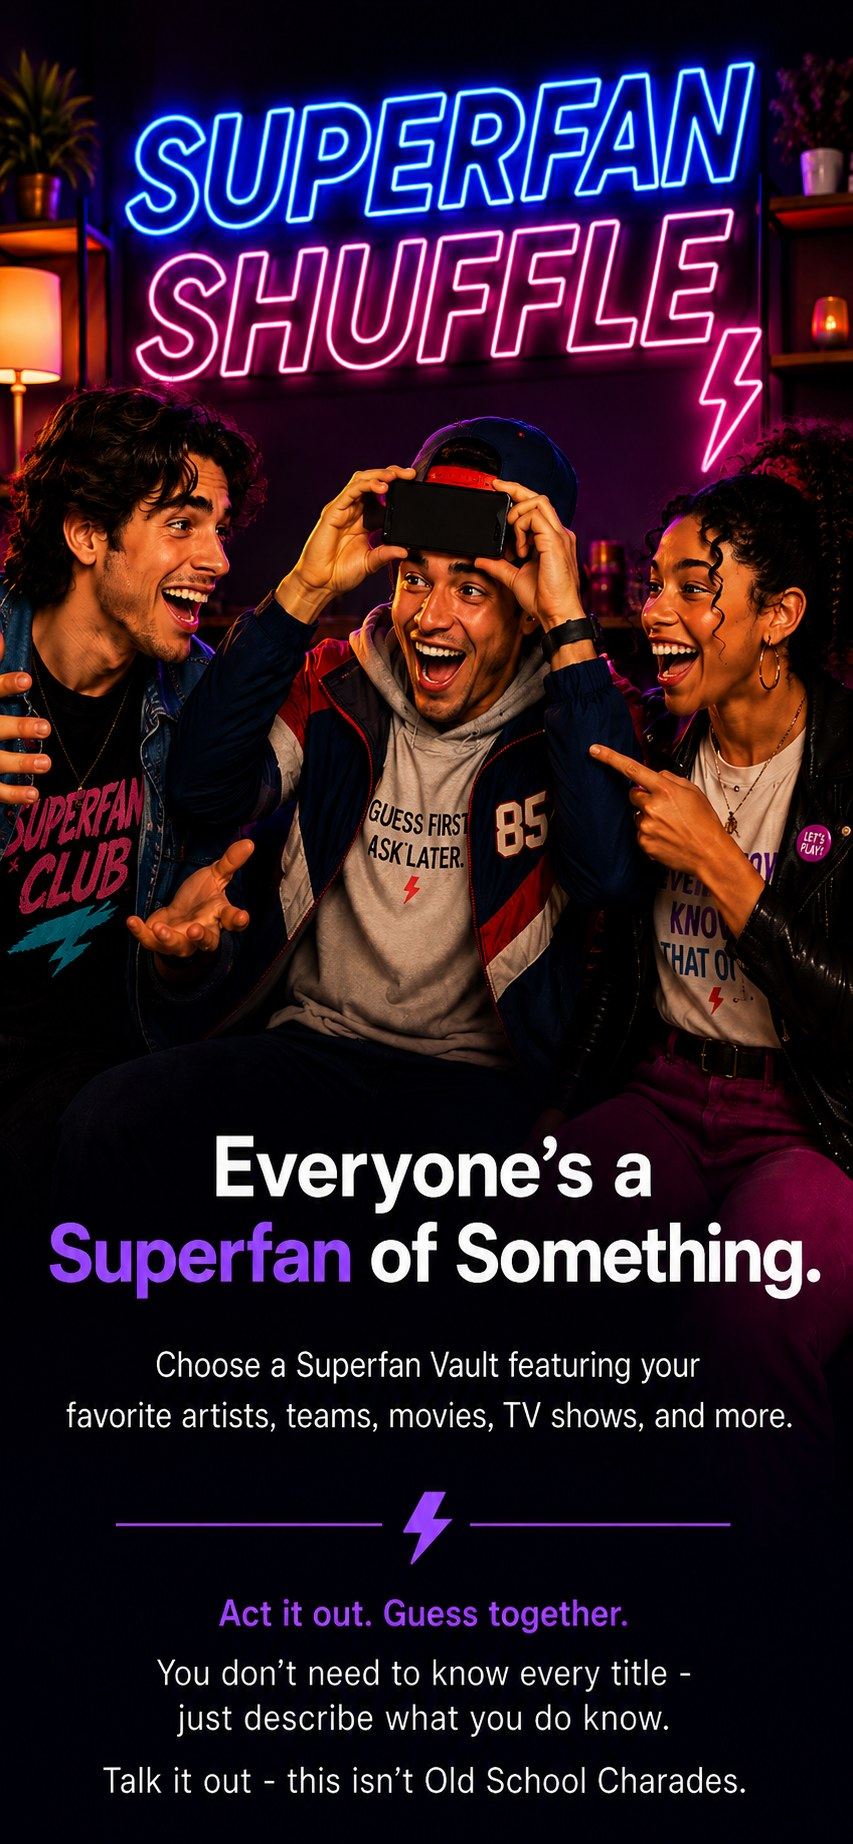
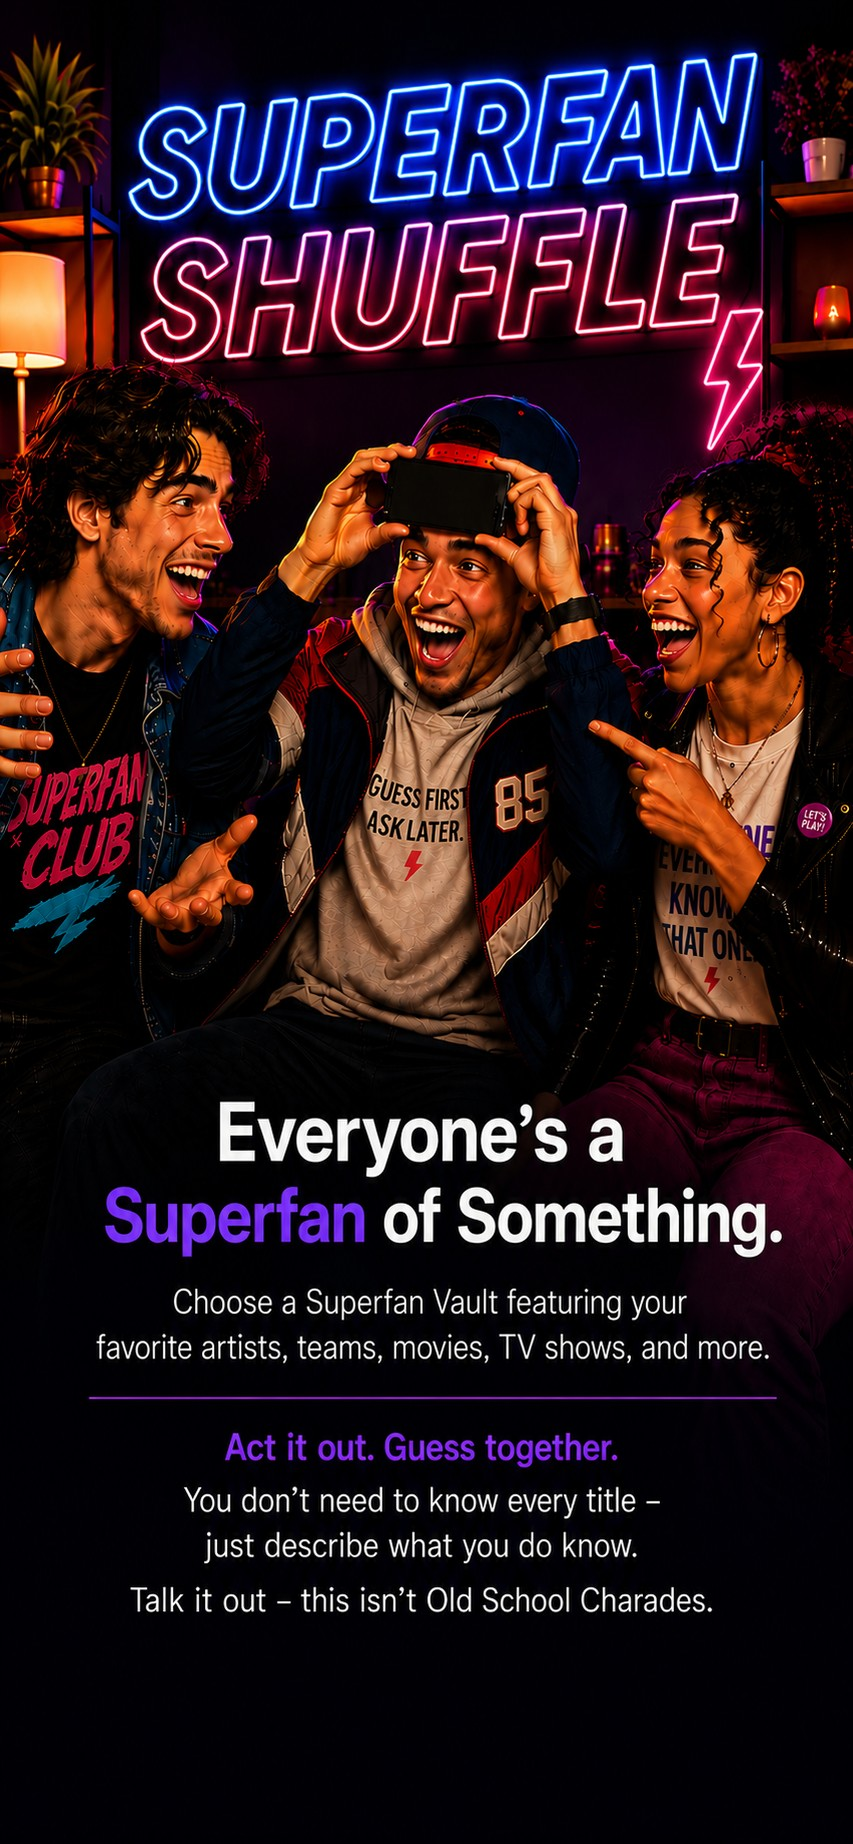
SFS v178: new intro description graphic (plus v177 guide colours)

diff --git a/play.html b/play.html
@@ -891,62 +891,33 @@ function qpgIco(n){var s='<svg width="100%" height="100%" viewBox="0 0 24 24" fi
 function qpgAv(){return '<svg viewBox="0 0 24 24" width="100%" height="100%" fill="none" stroke="currentColor" stroke-width="1.7"><circle cx="12" cy="12" r="10.5"/><circle cx="12" cy="9.6" r="3.3" fill="currentColor" stroke="none"/><path d="M5.6 19.4a6.7 6.7 0 0112.8 0" fill="currentColor" stroke="none"/></svg>';}
 function qpgD(){return '<svg width="55%" height="55%" viewBox="0 0 24 24" fill="none" stroke="currentColor" stroke-width="2.6" stroke-linecap="round" stroke-linejoin="round"><path d="M12 5v14M6 13l6 6 6-6"/></svg>';}
 function qpgU(){return '<svg width="55%" height="55%" viewBox="0 0 24 24" fill="none" stroke="currentColor" stroke-width="2.6" stroke-linecap="round" stroke-linejoin="round"><path d="M7 17L17 7M9 7h8v8"/></svg>';}
-/* ===== guide accent picker (rebuilt Aug 2026 — see the audit note below) =====
-   The old version only guarded against a near-WHITE outline. It had no guard for a
-   near-BLACK one, and 52 of the 124 teams carry an outline that fails 3:1 against the
-   guide's #0e1c2e background — 30 of them are pure #000000 (Celtics, Bulls, Raptors,
-   Bruins...). On those teams the accent text and the TAP TO PLAY button rendered black
-   on near-black. Now: take whichever of the team's two colours reads better on the
-   guide background, and if even that is under the floor, lift it toward white until it
-   clears. Result is 124/124 legible; 21 teams get a lift, and most of those are a few
-   percent (Pistons #C8102E -> #CA1734). */
-var QPG_BG='#0e1c2e', QPG_FLOOR=3.2;
+/* ===== guide chrome colours (settled Aug 2026) =====
+   The guide does NOT use team colours. It did briefly, and the audit that came out of
+   it is worth keeping in mind if anyone reconsiders:
+     - 52 of the 124 teams have a card outline that fails 3:1 on this background, 30 of
+       them pure #000000, so a naive team accent renders black-on-black.
+     - Only 13 teams own a genuine, legible, distinct SECOND colour. For the rest the
+       second colour is black, white, or so dark it has to be lifted into a hue the team
+       does not actually own (Braves navy #13274F -> a bright blue).
+     - Worse, the "official" second colours that do exist are mostly unrecognisable:
+       Celtics Gold #BA9653 is a tan in the leprechaun's vest, Yankees red #E4002C is a
+       mark nobody pictures. Technically correct, reads as wrong.
+   The card behind the guide is navy and the game card carries the team colours already,
+   so the guide is app chrome: the sports edition orange plus the standing light blue.
+   Team colours still drive the GAME screens via #app.sportcard - that is unchanged. */
+var QPG_BG='#0e1c2e';
+var QPG_ACCENT={sports:'#FF8A2A', music:'#ff5cf0'};   /* sports orange = the store's Sports tab tint */
+var QPG_SECOND='#5fa8e8';
 function _qRgb(h){ h=(h||'').replace('#',''); if(h.length!==6) return null;
  return [parseInt(h.substr(0,2),16),parseInt(h.substr(2,2),16),parseInt(h.substr(4,2),16)]; }
-function _qHex(c){ var s='#'; for(var i=0;i<3;i++){ var v=Math.round(Math.max(0,Math.min(255,c[i]))).toString(16); s+=(v.length<2?'0':'')+v; } return s; }
 function _qLum(h){ var c=_qRgb(h); if(!c) return 0; var o=[];
  for(var i=0;i<3;i++){ var v=c[i]/255; o[i]=(v<=.03928)?v/12.92:Math.pow((v+.055)/1.055,2.4); }
  return .2126*o[0]+.7152*o[1]+.0722*o[2]; }
 function _qCr(a,b){ var x=_qLum(a),y=_qLum(b); return (Math.max(x,y)+.05)/(Math.min(x,y)+.05); }
-/* Lift in HSL — raise LIGHTNESS only, keep hue and saturation. Blending toward white
-   instead would desaturate: Toronto's #00205B came out #6b6b6b grey, which reads as a
-   bug, not as a team colour. This keeps a dark navy a navy. */
-function _qHsl(c){ var r=c[0]/255,g=c[1]/255,b=c[2]/255,
- mx=Math.max(r,g,b),mn=Math.min(r,g,b),d=mx-mn,l=(mx+mn)/2,h=0,s=0;
- if(d){ s=l>.5?d/(2-mx-mn):d/(mx+mn);
-  h=(mx===r)?((g-b)/d+(g<b?6:0)):(mx===g)?((b-r)/d+2):((r-g)/d+4); h/=6; }
- return [h,s,l]; }
-function _qRgbFromHsl(h,s,l){ function f(p,q,t){ if(t<0)t+=1; if(t>1)t-=1;
-  if(t<1/6)return p+(q-p)*6*t; if(t<1/2)return q; if(t<2/3)return p+(q-p)*(2/3-t)*6; return p; }
- if(!s) return [l*255,l*255,l*255];
- var q=l<.5?l*(1+s):l+s-l*s, p=2*l-q;
- return [f(p,q,h+1/3)*255, f(p,q,h)*255, f(p,q,h-1/3)*255]; }
-function _qLift(h,t,bg){ var c=_qRgb(h); if(!c) return h;
- var v=_qHsl(c), hu=v[0], sa=v[1], li=v[2];
- for(var k=0;k<=100;k++){ var n=_qHex(_qRgbFromHsl(hu,sa,Math.min(1,li+k/100)));
-  if(_qCr(n,bg)>=t) return n; }
- return '#ffffff'; }
-/* chroma, not HSV saturation — HSV calls #101820 "50% saturated" when it is basically
-   black. (max-min)/255 correctly scores it 0.06 and the Steelers' gold 0.93. */
-function _qChroma(h){ var c=_qRgb(h); if(!c) return 0;
- return (Math.max(c[0],c[1],c[2])-Math.min(c[0],c[1],c[2]))/255; }
-/* Pick order:
-   1. If either colour already clears the floor untouched, use it — an unmodified team
-      colour is always truer than a lifted one. Best contrast wins if both clear.
-   2. If neither clears, take the more CHROMATIC one and lift that.
-   Rule 2 is what saves Toronto: their navy #00205B actually scores WORSE than black
-   against this navy-ish background (1.11 vs 1.22), so a contrast-only rule picked
-   black — and lifting a hueless colour can only produce grey. Chroma picks the navy. */
-function qpgAccent(){ if(ED==='music') return '#ff5cf0';
- var sc=spCard(); if(!sc) return '#f47b20';
- var o=sc.o||'#f47b20', b=sc.b||o;
- var co=_qCr(o,QPG_BG), cb=_qCr(b,QPG_BG);
- var oOk=co>=QPG_FLOOR, bOk=cb>=QPG_FLOOR;
- if(oOk||bOk){ if(oOk&&bOk) return co>=cb?o:b; return oOk?o:b; }
- return _qLift(_qChroma(o)>=_qChroma(b)?o:b, QPG_FLOOR, QPG_BG); }
-/* TAP TO PLAY sits ON the accent, so its ink has to flip. 67 of the 124 teams have a
-   gold/silver/grey accent where white lettering falls under 3:1 (Steelers gold = 1.76,
-   Yankees silver = 1.60). Those get dark ink instead. */
+function qpgAccent(){ return QPG_ACCENT[ED] || QPG_ACCENT.sports; }
+function qpgSecond(){ return QPG_SECOND; }
+/* TAP TO PLAY sits ON the accent, so its ink flips. White on the sports orange is only
+   2.35:1 - well under the 3:1 large-text floor - so that button takes dark ink. */
 function qpgInk(acc){ return _qCr('#ffffff',acc)>=3.2 ? '#ffffff' : '#10161f'; }
 /* per-edition content for the guide. Layout, animation and the PASS/CORRECT
    colours are shared; only copy, icons and the accent change. PASS stays orange
@@ -992,7 +963,7 @@ function renderQPG(){
  st.className='screen on qpgmode';
  try{ document.getElementById('app').classList.add('qpgapp'); }catch(e){}
  try{ st.style.setProperty('--qglow', hexA(acc,.20)); }catch(e){}
- st.innerHTML='<div class="qpg '+(CFG.cls||'')+'" style="--qo:'+acc+';--qink:'+qpgInk(acc)+'">'
+ st.innerHTML='<div class="qpg '+(CFG.cls||'')+'" style="--qo:'+acc+';--qink:'+qpgInk(acc)+';--qb:'+qpgSecond()+'">'
   +'<div class="qpgt"><div class="qdash"><i></i><i></i></div><h1>QUICK PLAY GUIDE</h1><div class="qdash r"><i></i><i></i></div></div>'
   +'<div class="qtilt">'
     +'<div class="qc"><div class="qring qg qringG">'+qpgD()+'</div><div><div class="qlab qg">CORRECT</div><div class="qsub">TILT DOWN</div></div></div>'

diff --git a/index.html b/index.html
@@ -423,13 +423,13 @@ body.view-browse #topbar{display:none}body.view-browse #brandBar{display:none}.b
     <div class="triP p2"><div class="triBg"></div><div class="triTxt">Lights, Camera, Action</div></div>
     <div class="triP p3"><div class="triBg"></div><div class="triTxt">Settle the Score</div></div>
   </div>
-  <div class="descP" id="descP"><img src="intro-desc.jpg?v=3" alt="Everyone's a superfan of something"></div>
+  <div class="descP" id="descP"><img src="intro-desc.jpg?v=4" alt="Everyone's a superfan of something"></div>
   <div class="spSkip" id="spSkip">Tap to skip</div>
 </div>
 <div id="bgfx"></div>
 <!-- FULL-SCREEN INTRO (shows every app open: brand card -> how-to-play -> store) -->
 <div id="introOv" aria-label="Welcome to SuperFan Shuffle">
-  <div class="introSlide idesc" id="introDesc"><img src="intro-desc.jpg?v=3" alt="Everyone&rsquo;s a superfan of something"><div class="idescHint">TAP TO CONTINUE <span>&#9654;</span></div></div>
+  <div class="introSlide idesc" id="introDesc"><img src="intro-desc.jpg?v=4" alt="Everyone&rsquo;s a superfan of something"><div class="idescHint">TAP TO CONTINUE <span>&#9654;</span></div></div>
   </div>
 <style>
 #introOv{position:fixed;inset:0;z-index:100000;background:#0b0714;display:none}
@@ -1319,11 +1319,11 @@ brandBarState();
    at(4850, endIntro);
    if(repeat){ at(300,function(){ $('#spSkip').classList.add('on'); }); sp.addEventListener('click', endIntro); }
  }
- var srcs=['sfs-unlit.png?v=1','sfs-lit.png?v=1','intro-tri1.jpg?v=1','intro-tri2.jpg?v=1','intro-tri3.jpg?v=1','intro-desc.jpg?v=3'];
+ var srcs=['sfs-unlit.png?v=1','sfs-lit.png?v=1','intro-tri1.jpg?v=1','intro-tri2.jpg?v=1','intro-tri3.jpg?v=1','intro-desc.jpg?v=4'];
  var left=srcs.length, started=false;
  function go(){ if(started)return; started=true; run(); }
  srcs.forEach(function(u){ var i=new Image(); i.onload=i.onerror=function(){ if(--left<=0) go(); }; i.src=u; });
  setTimeout(go, 1500);
 })();
 </script>
-<div id="buildtag">v176</div><style>#buildtag{position:fixed;left:5px;bottom:3px;z-index:99999;font:700 9px/1 system-ui,sans-serif;color:rgba(255,255,255,.30);pointer-events:none;letter-spacing:.5px}</style></body></html>
+<div id="buildtag">v178</div><style>#buildtag{position:fixed;left:5px;bottom:3px;z-index:99999;font:700 9px/1 system-ui,sans-serif;color:rgba(255,255,255,.30);pointer-events:none;letter-spacing:.5px}</style></body></html>
